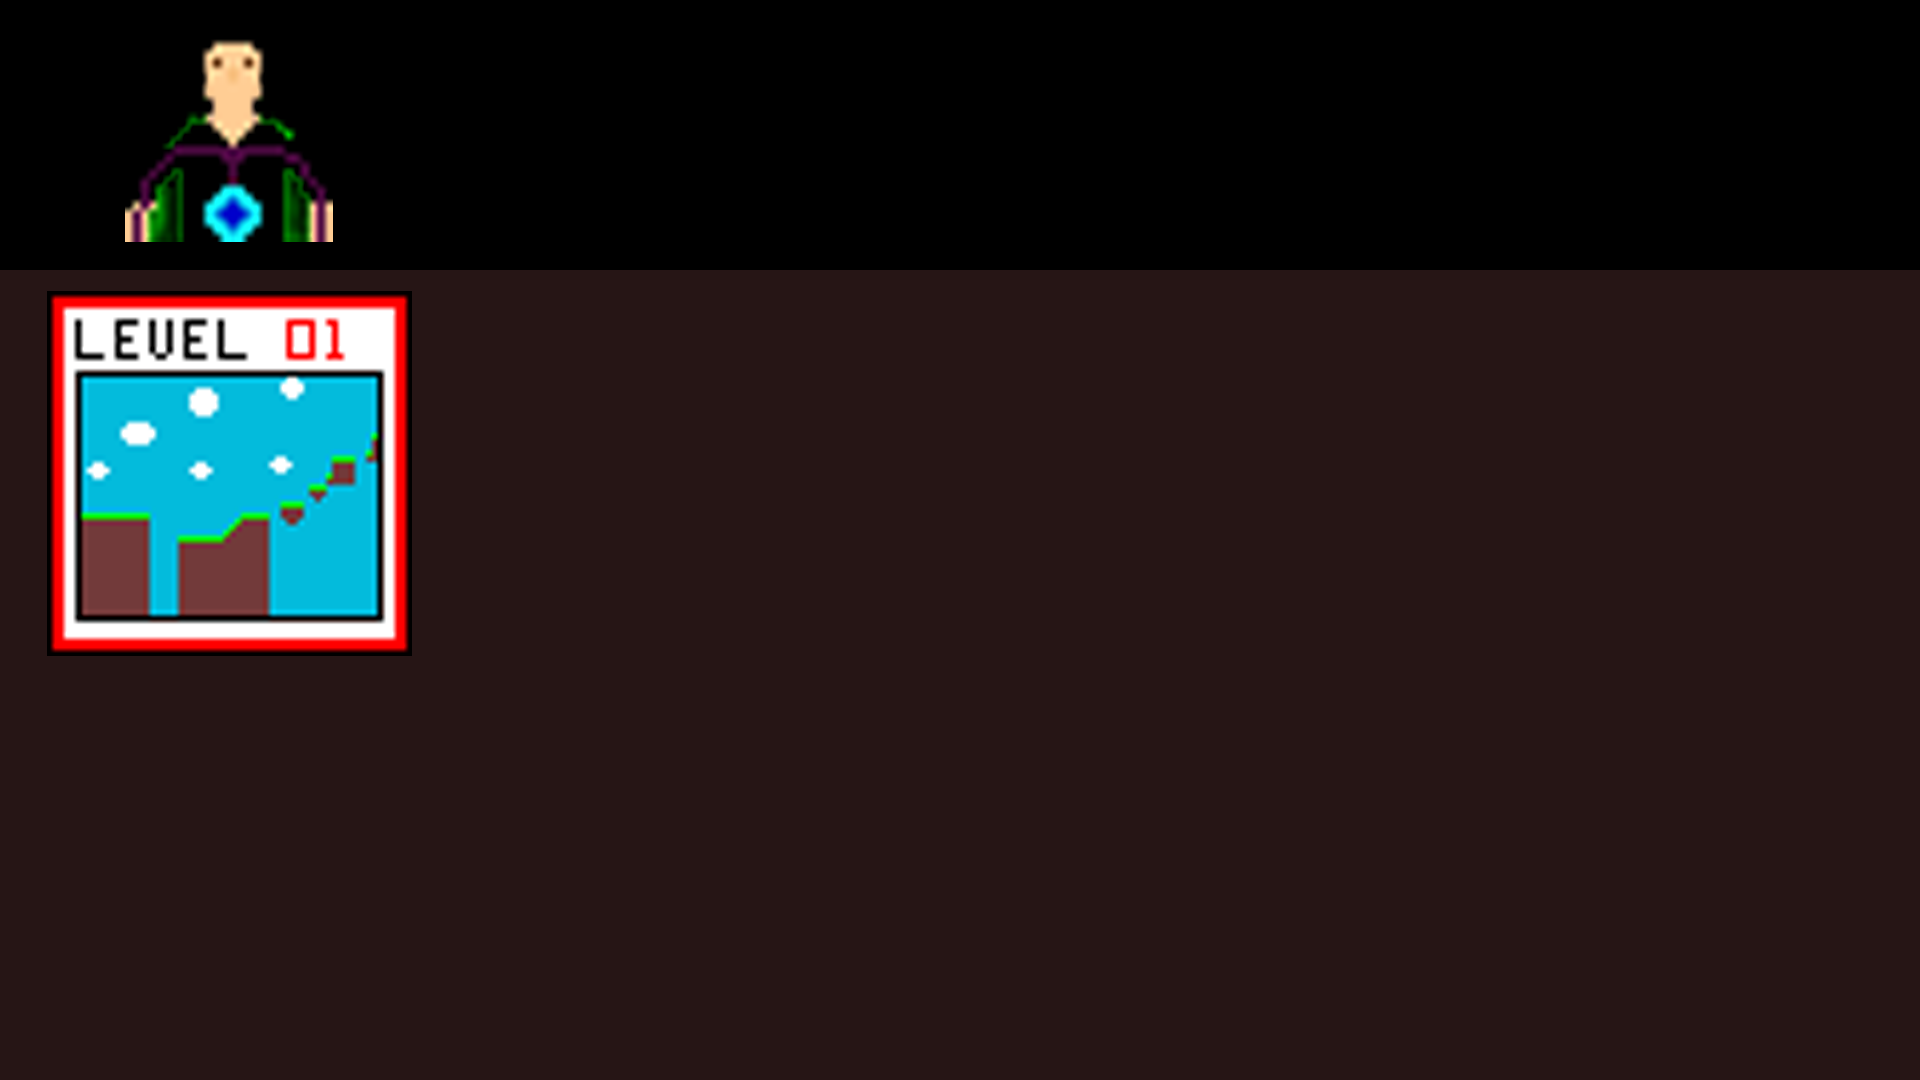
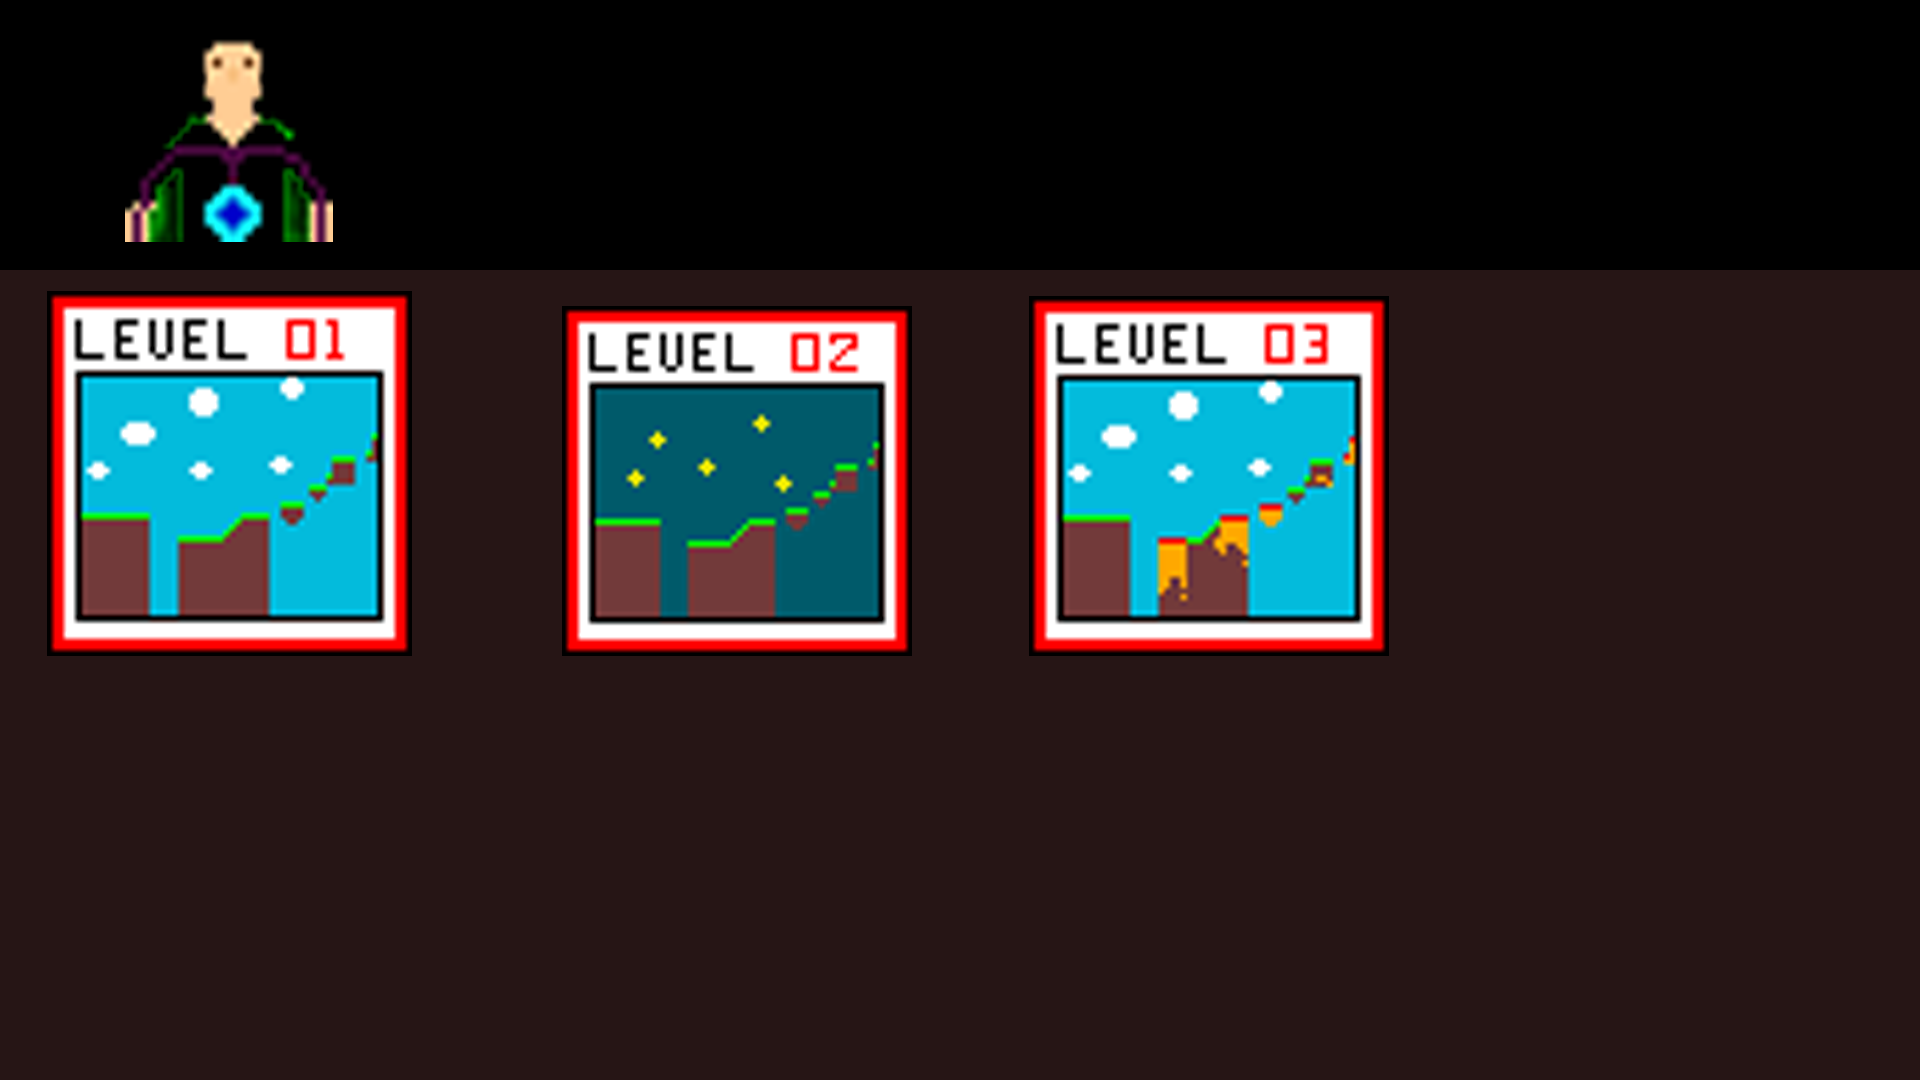
Added characterMEnu

Changed region(s): [[0.5312, 0.275, 0.75, 0.6111], [0.2812, 0.275, 0.5, 0.6111]]

diff --git a/IT-Adventures/src/com/it/main/MouseInput.java b/IT-Adventures/src/com/it/main/MouseInput.java
@@ -9,90 +9,131 @@ public class MouseInput implements MouseListener {
 	private MainMenu mainMenu;
 	private CharacterMenu characterMenu;
 	private Game game;
-	
-	public MouseInput(MainMenu mainMenu,Game game,CharacterMenu characterMenu){
-		this.mainMenu=mainMenu;
-		this.game=game;
-		this.characterMenu=characterMenu;
+
+	public MouseInput(MainMenu mainMenu, Game game, CharacterMenu characterMenu) {
+		this.mainMenu = mainMenu;
+		this.game = game;
+		this.characterMenu = characterMenu;
 	}
-	
+
 	@Override
 	public void mouseClicked(MouseEvent e) {
-		int x=e.getX();
-		int y=e.getY();
-		Rectangle mouse =new Rectangle(x,y,1,1);
-		
-		
-		if(Game.State==Game.STATE.MainMenu){
-			Rectangle playButton =new Rectangle(0,Game.HEIGHT/4,Game.WIDTH,Game.HEIGHT/4);
-			Rectangle exitButton =new Rectangle(0,Game.HEIGHT/2+Game.HEIGHT/4,Game.WIDTH,Game.HEIGHT/4);
-			if(playButton.intersects(mouse)){
-				
+		int x = e.getX();
+		int y = e.getY();
+		Rectangle mouse = new Rectangle(x, y, 1, 1);
+
+		if (Game.State == Game.STATE.MainMenu) {
+			Rectangle playButton = new Rectangle(0, Game.HEIGHT / 4, Game.WIDTH, Game.HEIGHT / 4);
+			Rectangle exitButton = new Rectangle(0, Game.HEIGHT / 2 + Game.HEIGHT / 4, Game.WIDTH, Game.HEIGHT / 4);
+			if (playButton.intersects(mouse)) {
+
 				mainMenu.startPlayAnimation();
-				
-				
+
 			}
-			if(exitButton.intersects(mouse)){
+			if (exitButton.intersects(mouse)) {
 				System.exit(0);
 			}
-		}
-		else if(Game.State==Game.STATE.PlayMenu){
-			Rectangle newGame =new Rectangle(0,Game.HEIGHT/4,Game.WIDTH,Game.HEIGHT/4);
-			Rectangle loadGame=new Rectangle(0,Game.HEIGHT/2,Game.WIDTH,Game.HEIGHT/4);
-			Rectangle backButton = new Rectangle(0,Game.HEIGHT/2+Game.HEIGHT/4,Game.WIDTH,Game.HEIGHT/4);
-			if(backButton.intersects(mouse)){
-				Game.State=Game.STATE.MainMenu;
+		} else if (Game.State == Game.STATE.PlayMenu) {
+			Rectangle newGame = new Rectangle(0, Game.HEIGHT / 4, Game.WIDTH, Game.HEIGHT / 4);
+			Rectangle loadGame = new Rectangle(0, Game.HEIGHT / 2, Game.WIDTH, Game.HEIGHT / 4);
+			Rectangle backButton = new Rectangle(0, Game.HEIGHT / 2 + Game.HEIGHT / 4, Game.WIDTH, Game.HEIGHT / 4);
+			if (backButton.intersects(mouse)) {
+				Game.State = Game.STATE.MainMenu;
 			}
-			if(loadGame.intersects(mouse)){
-				Game.State=Game.STATE.CharacterMenu;
+			if (loadGame.intersects(mouse)) {
+				Game.State = Game.STATE.CharacterMenu;
 			}
-			if(newGame.intersects(mouse)){
-				Game.State=Game.STATE.Game;
+			if (newGame.intersects(mouse)) {
+				Game.State = Game.STATE.Game;
 			}
-		}
-		else if(Game.State==Game.STATE.GameOver){
-			Rectangle tryAgain =new Rectangle(Game.WIDTH/4,Game.HEIGHT/4,Game.WIDTH/2,Game.HEIGHT/4);
-			Rectangle mainMenu = new Rectangle(Game.WIDTH/4,Game.HEIGHT/2,Game.WIDTH/2,Game.HEIGHT/4);
-			
-			if(mainMenu.intersects(mouse)){
-				Game.State=Game.STATE.MainMenu;
+		} else if (Game.State == Game.STATE.GameOver) {
+			Rectangle tryAgain = new Rectangle(Game.WIDTH / 4, Game.HEIGHT / 4, Game.WIDTH / 2, Game.HEIGHT / 4);
+			Rectangle mainMenu = new Rectangle(Game.WIDTH / 4, Game.HEIGHT / 2, Game.WIDTH / 2, Game.HEIGHT / 4);
+
+			if (mainMenu.intersects(mouse)) {
+				Game.State = Game.STATE.MainMenu;
 			}
-			if(tryAgain.intersects(mouse)){
+			if (tryAgain.intersects(mouse)) {
 				game.loadNewLevel();
-				Game.State=Game.STATE.Game;
+				Game.State = Game.STATE.Game;
+			}
+		} else if (Game.State == Game.STATE.CharacterMenu) {
+			Rectangle jaime = new Rectangle(0, 0, Game.WIDTH / 4, Game.HEIGHT / 4);
+			Rectangle jaime1 = new Rectangle(Game.WIDTH / 4, 0, Game.WIDTH / 4, Game.HEIGHT / 4);
+			Rectangle jaime2 = new Rectangle(Game.WIDTH / 2, 0, Game.WIDTH / 4, Game.HEIGHT / 4);
+			Rectangle jaime3 = new Rectangle(Game.WIDTH / 2 + Game.WIDTH / 4, 0, Game.WIDTH / 4, Game.HEIGHT / 4);
+			if (jaime.intersects(mouse)) {
+				characterMenu.setSelectedCharacter(CharacterType.Jaime);
+			}
+			if (jaime1.intersects(mouse)) {
+
+			}
+			if (jaime2.intersects(mouse)) {
+
+			}
+			if (jaime3.intersects(mouse)) {
+
+			}
+			
+			if(characterMenu.getSelectedCharacter()!=null){
+				Rectangle level0 = new Rectangle(0,Game.HEIGHT/4,Game.WIDTH/4,(3*Game.HEIGHT/4)/2);
+				Rectangle level1 = new Rectangle(Game.WIDTH/4,Game.HEIGHT/4,Game.WIDTH/4,(3*Game.HEIGHT/4)/2);
+				Rectangle level2 = new Rectangle(Game.WIDTH/2,Game.HEIGHT/4,Game.WIDTH/4,(3*Game.HEIGHT/4)/2);
+//				Rectangle level3 = new Rectangle(Game.WIDTH / 2 + Game.WIDTH / 4,Game.HEIGHT/4,Game.WIDTH/4,(3*Game.HEIGHT/4)/2);
+//				Rectangle level4 = new Rectangle(0,((3*Game.HEIGHT/4)/2)+Game.HEIGHT/4,Game.WIDTH/4,(3*Game.HEIGHT/4)/2);
+//				Rectangle level5 = new Rectangle(Game.WIDTH/4,((3*Game.HEIGHT/4)/2)+Game.HEIGHT/4,Game.WIDTH/4,(3*Game.HEIGHT/4)/2);
+//				Rectangle level6 = new Rectangle(Game.WIDTH/2,((3*Game.HEIGHT/4)/2)+Game.HEIGHT/4,Game.WIDTH/4,(3*Game.HEIGHT/4)/2);
+//				Rectangle level7 = new Rectangle(Game.WIDTH / 2 + Game.WIDTH / 4,((3*Game.HEIGHT/4)/2)+Game.HEIGHT/4,Game.WIDTH/4,(3*Game.HEIGHT/4)/2);
+				if(level0.intersects(mouse)){
+					characterMenu.setSelectedLevel(0);
+				}
+				if(level1.intersects(mouse)){
+					characterMenu.setSelectedLevel(1);
+				}
+				if(level2.intersects(mouse)){
+					characterMenu.setSelectedLevel(2);
+				}
+//				if(level3.intersects(mouse)){
+//					characterMenu.setSelectedLevel(3);
+//				}
+//				if(level4.intersects(mouse)){
+//					characterMenu.setSelectedLevel(4);
+//				}
+//				if(level5.intersects(mouse)){
+//					characterMenu.setSelectedLevel(5);
+//				}
+//				if(level6.intersects(mouse)){
+//					characterMenu.setSelectedLevel(6);
+//				}
+//				if(level7.intersects(mouse)){
+//					characterMenu.setSelectedLevel(7);
+//				}
 			}
 		}
-		
 	}
 
 	@Override
 	public void mouseEntered(MouseEvent arg0) {
 		// TODO Auto-generated method stub
-		
+
 	}
 
 	@Override
 	public void mouseExited(MouseEvent arg0) {
 		// TODO Auto-generated method stub
-		
+
 	}
 
 	@Override
 	public void mousePressed(MouseEvent arg0) {
 		// TODO Auto-generated method stub
-		
+
 	}
 
 	@Override
 	public void mouseReleased(MouseEvent arg0) {
 		// TODO Auto-generated method stub
-		
+
 	}
 
-	
-		
-	
-	
-	
-		
 }

diff --git a/IT-Adventures/src/com/it/main/CharacterMenu.java b/IT-Adventures/src/com/it/main/CharacterMenu.java
@@ -1,24 +1,58 @@
 package com.it.main;
 
+import java.awt.Color;
 import java.awt.Graphics;
 import java.awt.image.BufferedImage;
 
 public class CharacterMenu {
 
 	private BufferedImage image;
-	private BufferedImageLoader imageLoader;
-	
-	public CharacterMenu(BufferedImageLoader imageLoader){
-		this.imageLoader=imageLoader;
-		image=imageLoader.loadImage("/images/characterMenu.png");
+	private CharacterType selectedCharacter;
+	private int selectedLevel;
+	private Game game;
+
+	public CharacterMenu(BufferedImageLoader imageLoader,Game game) {
+		this.game=game;
+		image = imageLoader.loadImage("/images/characterMenu.png");
 	}
-	
-	
-	public void tick(){
-		
+
+	public void tick() {
+
 	}
-	
-	public void render(Graphics g){
-		g.drawImage( image , 0, 0, 1920,1080,null);
+
+	public void render(Graphics g) {
+		g.drawImage(image, 0, 0, Game.WIDTH, Game.HEIGHT, null);
+		try {
+			switch (selectedCharacter) {
+
+			case Jaime:
+				g.setColor(Color.RED);
+				g.drawRect(0, 0, Game.WIDTH / 4, Game.HEIGHT / 4);
+				break;
+			}
+		} catch (NullPointerException e) {
+
+		}
 	}
+
+	public CharacterType getSelectedCharacter() {
+		return selectedCharacter;
+	}
+
+	public void setSelectedCharacter(CharacterType selectedCharacter) {
+		this.selectedCharacter = selectedCharacter;
+	}
+
+	public int getSelectedLevel() {
+		return selectedLevel;
+	}
+
+	public void setSelectedLevel(int selectedLevel) {
+		this.selectedLevel = selectedLevel;
+		game.setCharacter(selectedCharacter);
+		game.setLevelNumber(selectedLevel);
+		game.loadNewLevel();
+		Game.State=Game.STATE.Game;
+	}
+
 }
